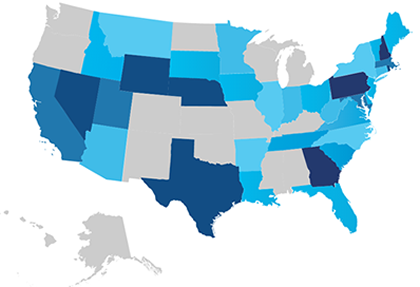
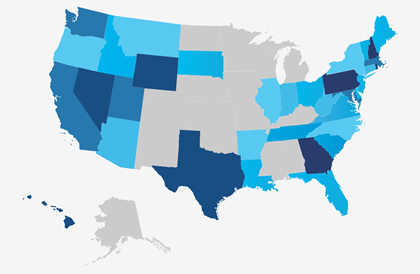
rebuilding site Sun, Oct 01, 2017 12:20:14 PM

diff --git a/content/travel.md b/content/travel.md
@@ -1,0 +1,159 @@
+---
+author: "Andrew Goss"
+title: Travel
+---
+
+![AG Travel Collage](/img/travel_collage.png "AG Travel Collage")
+
+Outside of work, I'm passionate about traveling the world, having new experiences, and broadening my perspective. I have a long, ambitious list of places that I want to try and visit in my lifetime, so I decided to start tracking where I've been and where I'd like to go in the future.
+
+The places I've listed out below are grouped by geographical belonging, not cultural significance (for example, Russia being listed under Asia and not Europe). Additionally, I do not count laying over in an airport as having visited a destination. I only mark a country or state as having been visited when I actually set foot in it and do something.
+
+## World Stats
+
+Countries/Territories Visited: 23<br>
+Continents Visited: 4<br>
+Percent of World: ~11.79%
+
+![My World Map](/img/matador_network_my_world_map.png "My World Map")
+
+##### North America
+<input type="checkbox" onclick="return false" checked="checked">&ensp;Bahamas&ensp;&ensp;
+<input type="checkbox" onclick="return false" checked="checked">&ensp;Canada&ensp;&ensp;
+<input type="checkbox" onclick="return false" checked="checked">&ensp;Cayman Islands&ensp;&ensp;
+<input type="checkbox" onclick="return false" checked="checked">&ensp;Haiti&ensp;&ensp;
+<input type="checkbox" onclick="return false" checked="checked">&ensp;Jamaica&ensp;&ensp;
+<input type="checkbox" onclick="return false" checked="checked">&ensp;Mexico&ensp;&ensp;
+<input type="checkbox" onclick="return false" checked="checked">&ensp;United States&ensp;&ensp;
+
+<input type="checkbox" onclick="return false">&ensp;Aruba&ensp;&ensp;
+<input type="checkbox" onclick="return false">&ensp;Belize&ensp;&ensp;
+<input type="checkbox" onclick="return false">&ensp;Costa Rica&ensp;&ensp;
+<input type="checkbox" onclick="return false">&ensp;Greenland&ensp;&ensp;
+<input type="checkbox" onclick="return false">&ensp;Turks and Caicos Islands&ensp;&ensp;
+
+##### South America
+<input type="checkbox" onclick="return false" checked="checked">&ensp;Peru&ensp;&ensp;
+
+<input type="checkbox" onclick="return false">&ensp;Argentina&ensp;&ensp;
+<input type="checkbox" onclick="return false">&ensp;Bolivia&ensp;&ensp;
+<input type="checkbox" onclick="return false">&ensp;Brazil&ensp;&ensp;
+<input type="checkbox" onclick="return false">&ensp;Chile&ensp;&ensp;
+
+##### Europe
+<input type="checkbox" onclick="return false" checked="checked">&ensp;France&ensp;&ensp;
+<input type="checkbox" onclick="return false" checked="checked">&ensp;Holy See (Vatican City)&ensp;&ensp;
+<input type="checkbox" onclick="return false" checked="checked">&ensp;Ireland&ensp;&ensp;
+<input type="checkbox" onclick="return false" checked="checked">&ensp;Italy&ensp;&ensp;
+<input type="checkbox" onclick="return false" checked="checked">&ensp;Monaco&ensp;&ensp;
+<input type="checkbox" onclick="return false" checked="checked">&ensp;Spain&ensp;&ensp;
+<input type="checkbox" onclick="return false" checked="checked">&ensp;United Kingdom&ensp;&ensp;
+
+<input type="checkbox" onclick="return false">&ensp;Austria&ensp;&ensp;
+<input type="checkbox" onclick="return false">&ensp;Belgium&ensp;&ensp;
+<input type="checkbox" onclick="return false">&ensp;Croatia&ensp;&ensp;
+<input type="checkbox" onclick="return false">&ensp;Czech Republic&ensp;&ensp;
+<input type="checkbox" onclick="return false">&ensp;Denmark&ensp;&ensp;
+<input type="checkbox" onclick="return false">&ensp;Germany&ensp;&ensp;
+<input type="checkbox" onclick="return false">&ensp;Gibraltar&ensp;&ensp;
+<input type="checkbox" onclick="return false">&ensp;Greece&ensp;&ensp;
+<input type="checkbox" onclick="return false">&ensp;Iceland&ensp;&ensp;
+<input type="checkbox" onclick="return false">&ensp;Luxembourg&ensp;&ensp;
+<input type="checkbox" onclick="return false">&ensp;Netherlands&ensp;&ensp;
+<input type="checkbox" onclick="return false">&ensp;Norway&ensp;&ensp;
+<input type="checkbox" onclick="return false">&ensp;Poland&ensp;&ensp;
+<input type="checkbox" onclick="return false">&ensp;Portugal&ensp;&ensp;
+<input type="checkbox" onclick="return false">&ensp;Romania&ensp;&ensp;
+<input type="checkbox" onclick="return false">&ensp;Sweden&ensp;&ensp;
+
+##### Africa
+<input type="checkbox" onclick="return false">&ensp;Egypt&ensp;&ensp;
+<input type="checkbox" onclick="return false">&ensp;Kenya&ensp;&ensp;
+<input type="checkbox" onclick="return false">&ensp;Morocco&ensp;&ensp;
+<input type="checkbox" onclick="return false">&ensp;South Africa&ensp;&ensp;
+<input type="checkbox" onclick="return false">&ensp;Tanzania&ensp;&ensp;
+
+##### Antarctica
+<input type="checkbox" onclick="return false">&ensp;Antarctica&ensp;&ensp;
+
+##### Asia
+<input type="checkbox" onclick="return false" checked="checked">&ensp;Cambodia&ensp;&ensp;
+<input type="checkbox" onclick="return false" checked="checked">&ensp;Hong Kong&ensp;&ensp;
+<input type="checkbox" onclick="return false" checked="checked">&ensp;Japan&ensp;&ensp;
+<input type="checkbox" onclick="return false" checked="checked">&ensp;Israel&ensp;&ensp;
+<input type="checkbox" onclick="return false" checked="checked">&ensp;Malaysia&ensp;&ensp;
+<input type="checkbox" onclick="return false" checked="checked">&ensp;Palestine&ensp;&ensp;
+<input type="checkbox" onclick="return false" checked="checked">&ensp;Thailand&ensp;&ensp;
+<input type="checkbox" onclick="return false" checked="checked">&ensp;Vietnam&ensp;&ensp;
+
+<input type="checkbox" onclick="return false">&ensp;China&ensp;&ensp;
+<input type="checkbox" onclick="return false">&ensp;Indonesia&ensp;&ensp;
+<input type="checkbox" onclick="return false">&ensp;Maldives&ensp;&ensp;
+<input type="checkbox" onclick="return false">&ensp;Nepal&ensp;&ensp;
+<input type="checkbox" onclick="return false">&ensp;Russia&ensp;&ensp;
+<input type="checkbox" onclick="return false">&ensp;Sri Lanka&ensp;&ensp;
+<input type="checkbox" onclick="return false">&ensp;Turkey&ensp;&ensp;
+<input type="checkbox" onclick="return false">&ensp;United Arab Emirates&ensp;&ensp;
+
+
+##### Oceania
+<input type="checkbox" onclick="return false">&ensp;Australia&ensp;&ensp;
+<input type="checkbox" onclick="return false">&ensp;New Zealand&ensp;&ensp;
+
+## US Stats
+
+States Visited: 35<br>
+Percent of US: 70%
+
+![My US Map](/img/matador_network_my_us_map.png "My US Map")
+
+<input type="checkbox" onclick="return false">&ensp;Alabama&ensp;&ensp;
+<input type="checkbox" onclick="return false">&ensp;Alaska&ensp;&ensp;
+<input type="checkbox" onclick="return false" checked="checked">&ensp;Arizona&ensp;&ensp;
+<input type="checkbox" onclick="return false">&ensp;Arkansas&ensp;&ensp;
+<input type="checkbox" onclick="return false" checked="checked">&ensp;California&ensp;&ensp;
+<input type="checkbox" onclick="return false">&ensp;Colorado&ensp;&ensp;
+<input type="checkbox" onclick="return false" checked="checked">&ensp;Connecticut&ensp;&ensp;
+<input type="checkbox" onclick="return false" checked="checked">&ensp;Delaware&ensp;&ensp;
+<input type="checkbox" onclick="return false" checked="checked">&ensp;Florida&ensp;&ensp;
+<input type="checkbox" onclick="return false" checked="checked">&ensp;Georgia&ensp;&ensp;
+<input type="checkbox" onclick="return false" checked="checked">&ensp;Hawaii&ensp;&ensp;
+<input type="checkbox" onclick="return false" checked="checked">&ensp;Idaho&ensp;&ensp;
+<input type="checkbox" onclick="return false" checked="checked">&ensp;Illinois&ensp;&ensp;
+<input type="checkbox" onclick="return false" checked="checked">&ensp;Indiana&ensp;&ensp;
+<input type="checkbox" onclick="return false">&ensp;Iowa&ensp;&ensp;
+<input type="checkbox" onclick="return false">&ensp;Kansas&ensp;&ensp;
+<input type="checkbox" onclick="return false">&ensp;Kentucky&ensp;&ensp;
+<input type="checkbox" onclick="return false" checked="checked">&ensp;Louisiana&ensp;&ensp;
+<input type="checkbox" onclick="return false" checked="checked">&ensp;Maine&ensp;&ensp;
+<input type="checkbox" onclick="return false" checked="checked">&ensp;Maryland&ensp;&ensp;
+<input type="checkbox" onclick="return false" checked="checked">&ensp;Massachusetts&ensp;&ensp;
+<input type="checkbox" onclick="return false">&ensp;Michigan&ensp;&ensp;
+<input type="checkbox" onclick="return false">&ensp;Minnesota&ensp;&ensp;
+<input type="checkbox" onclick="return false">&ensp;Mississippi&ensp;&ensp;
+<input type="checkbox" onclick="return false">&ensp;Missouri&ensp;&ensp;
+<input type="checkbox" onclick="return false" checked="checked">&ensp;Montana&ensp;&ensp;
+<input type="checkbox" onclick="return false">&ensp;Nebraska&ensp;&ensp;
+<input type="checkbox" onclick="return false" checked="checked">&ensp;Nevada&ensp;&ensp;
+<input type="checkbox" onclick="return false" checked="checked">&ensp;New Hampshire&ensp;&ensp;
+<input type="checkbox" onclick="return false" checked="checked">&ensp;New Jersey&ensp;&ensp;
+<input type="checkbox" onclick="return false">&ensp;New Mexico&ensp;&ensp;
+<input type="checkbox" onclick="return false" checked="checked">&ensp;New York&ensp;&ensp;
+<input type="checkbox" onclick="return false" checked="checked">&ensp;North Carolina&ensp;&ensp;
+<input type="checkbox" onclick="return false">&ensp;North Dakota&ensp;&ensp;
+<input type="checkbox" onclick="return false" checked="checked">&ensp;Ohio&ensp;&ensp;
+<input type="checkbox" onclick="return false">&ensp;Oklahoma&ensp;&ensp;
+<input type="checkbox" onclick="return false" checked="checked">&ensp;Oregon&ensp;&ensp;
+<input type="checkbox" onclick="return false" checked="checked">&ensp;Pennsylvania&ensp;&ensp;
+<input type="checkbox" onclick="return false" checked="checked">&ensp;Rhode Island&ensp;&ensp;
+<input type="checkbox" onclick="return false" checked="checked">&ensp;South Carolina&ensp;&ensp;
+<input type="checkbox" onclick="return false" checked="checked">&ensp;South Dakota&ensp;&ensp;
+<input type="checkbox" onclick="return false" checked="checked">&ensp;Tennessee&ensp;&ensp;
+<input type="checkbox" onclick="return false" checked="checked">&ensp;Texas&ensp;&ensp;
+<input type="checkbox" onclick="return false" checked="checked">&ensp;Utah&ensp;&ensp;
+<input type="checkbox" onclick="return false" checked="checked">&ensp;Vermont&ensp;&ensp;
+<input type="checkbox" onclick="return false" checked="checked">&ensp;Virginia&ensp;&ensp;
+<input type="checkbox" onclick="return false" checked="checked">&ensp;Washington&ensp;&ensp;
+<input type="checkbox" onclick="return false" checked="checked">&ensp;West Virginia&ensp;&ensp;
+<input type="checkbox" onclick="return false">&ensp;Wisconsin&ensp;&ensp;
+<input type="checkbox" onclick="return false" checked="checked">&ensp;Wyoming&ensp;&ensp;

diff --git a/content/about.md b/content/about.md
@@ -25,7 +25,7 @@ With the rate at which technology changes, you can never stop learning new thing
 
 <hr>
 
-Outside of work, I am a world traveler.
+Outside of work, I am a <a href="/travel">world traveler</a>.
 
 * To date, I have traveled to over 20 countries. In the summer of 2017, my wife and I took a 7-week sabbatical to travel throughout Japan and Southeast Asia.
 
